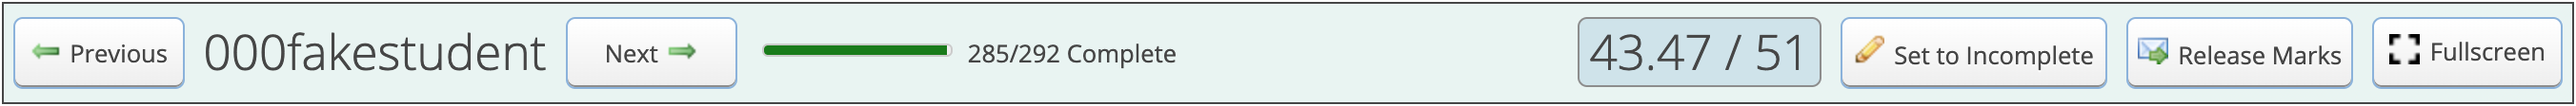
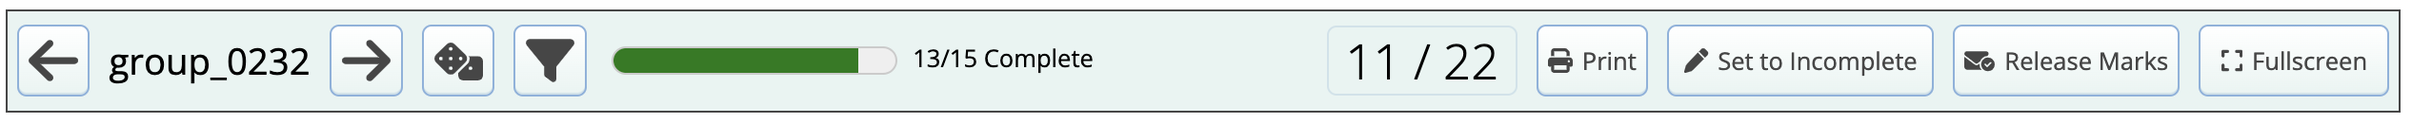
Filter Modal/Random Incomplete Submission Documentation  (#187)
---------

diff --git a/Instructor-Guide--Assignments--Marking--Grading-View.md b/Instructor-Guide--Assignments--Marking--Grading-View.md
@@ -5,6 +5,7 @@
 - [Prepare to Grade](#prepare-to-grade)
 - [View Submitted Files](#view-submitted-files)
 - [Grading Bar](#grading-bar)
+- [Filter Submissions](#filter-submissions)
 - [Download](#download)
 - [Print](#print)
 - [Annotations](#annotations)
@@ -43,8 +44,49 @@ The grading bar, located at the top of the grading view page, provides some usef
 
 ![Grading Bar](images/grade-view-grading-bar.png)
 
-The left half of the bar allows you to quickly switch between assignments by clicking on the "Previous" and "Next" buttons. It also displays the group number of the group who's submission you're currently grading. Finally, on the right, it shows you how many submissions have been set to the "Complete" status.
+The left half of the bar allows you to quickly switch between submissions by clicking on the "Previous" and "Next" buttons. Filters for these submissions can be specified by graders by clicking the "Filter Submissions" button (see "[Filter Submissions](#filter-submissions)"). A grader can also view a random submission whose grading is incomplete by clicking the "Random Incomplete Submission" button. Further, the grading bar displays the group number of the group whose submission you're currently grading. Finally, on the right, it shows you how many submissions have been set to the "Complete" status.
+
 The right half of the bar shows you the group's current mark for the submission (this will update as you assign and delete marks from the "marks" tab). It also allows you to set the marking for the submission to complete by clicking on the "Set to Complete" button. Once this has been done you may release the marks to the students by clicking on the "Release Marks" button (see "[Releasing Grades](Instructor-Guide--Assignments--Releasing-Grades.md)"). Finally, if you wish to switch to full screen mode, click on the "Fullscreen" button at the end of the bar.
+
+## Filter Submissions
+
+MarkUs allows you to filter and/or sort submissions based on specific criteria, such as marking state, tags, and other relevant attributes.
+To do this, click on the "Filter Submissions" button on the [Grading Bar](#grading-bar):
+
+![Filter Submissions button](images/filter-submissions-button.png)
+
+This will open up the Filter Submissions modal:
+
+![Filter Submissions](images/filter-submissions-modal.png)
+
+From here you may:
+
+- Order submissions (in ascending/descending order) by one of the following:
+    - Group Name (default)
+    - Submission Date
+    - Total Mark
+- Filter submissions by one or more of the following:
+    - **Marking State**: Filter all submissions with the specified marking state (see [Marking State](Instructor-Guide--Assignments--Marking--Set-Up.md#marking-state)). Select one of the marking states from the dropdown:
+        - In Progress
+        - Completed
+        - Released
+        - Requested Review
+    - **Tags**: You can select multiple tags (see [Tags](#tags)) to filter all submissions that have at least one of the specified tags associated with them.
+    - **Section**: Filter submissions using the section of the associated group's inviter.
+    - **Graders**: Instructors can select multiple graders to filter all submissions that have at least one of the specified graders assigned to them.
+    - **Annotation**: Text that must be present in an annotation (see [Annotations](#annotations)) for the submission.
+    - **Total Mark**: You can specify minimum and/or maximum total mark values to define a range and filter all submissions with total marks within the specified range (inclusive).
+    - **Total Extra Marks**: You can specify minimum and/or maximum total extra marks values to define a range and filter all submissions with total extra  marks within the specified range (inclusive).
+    - **Criteria**: You can filter student submissions based on their marks for different criteria (see [Criteria](Instructor-Guide--Assignments--Marking--Criteria.md)). Follow these steps to apply the filter:
+        - Select a criterion from the dropdown and click the "Add Criterion Filter" button. The criterion will show up on the list below.
+        - Specify min and/or max values to define a range for that criterion.
+        - Add more criteria if needed.
+
+All options will be restored to their default states when the "Clear All" button is clicked.
+After the modal is closed, submissions navigable using the "Next" and "Previous" buttons from the
+Grading Bar will be filtered and ordered according to the specified options.
+
+Note: When multiple filters are applied, the filtered submissions only include those that satisfy all the selected filters simultaneously.
 
 ## Download
 
